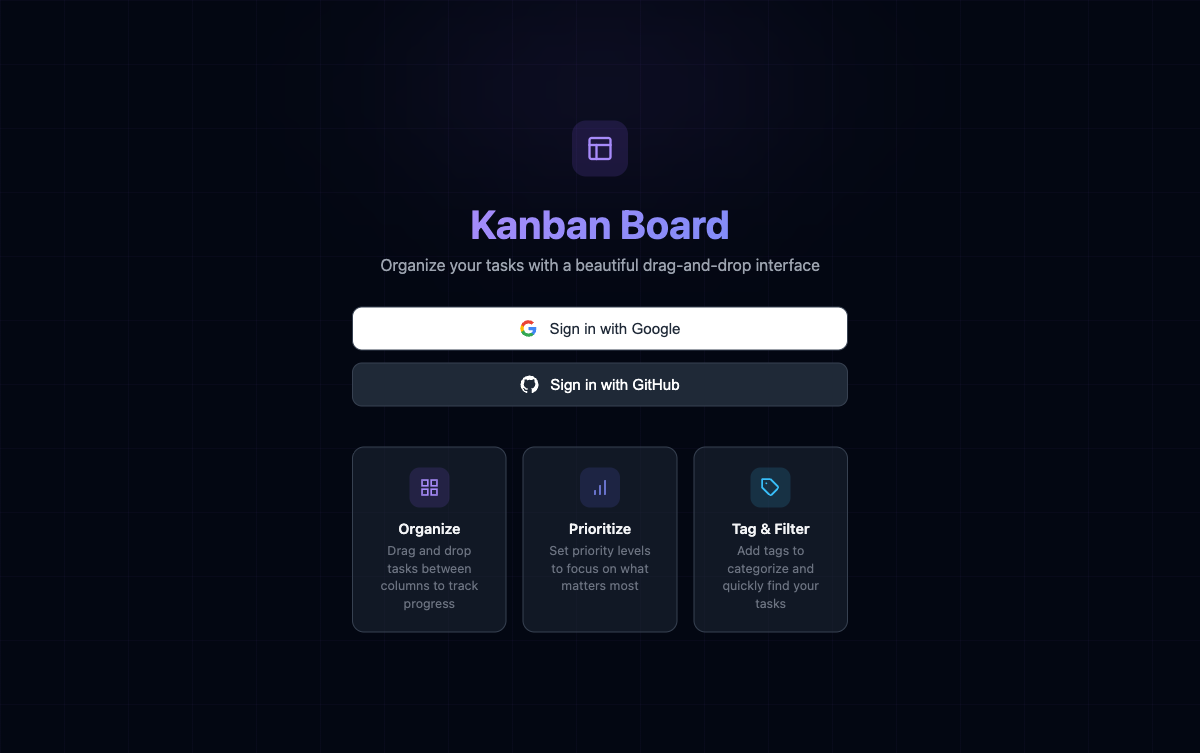
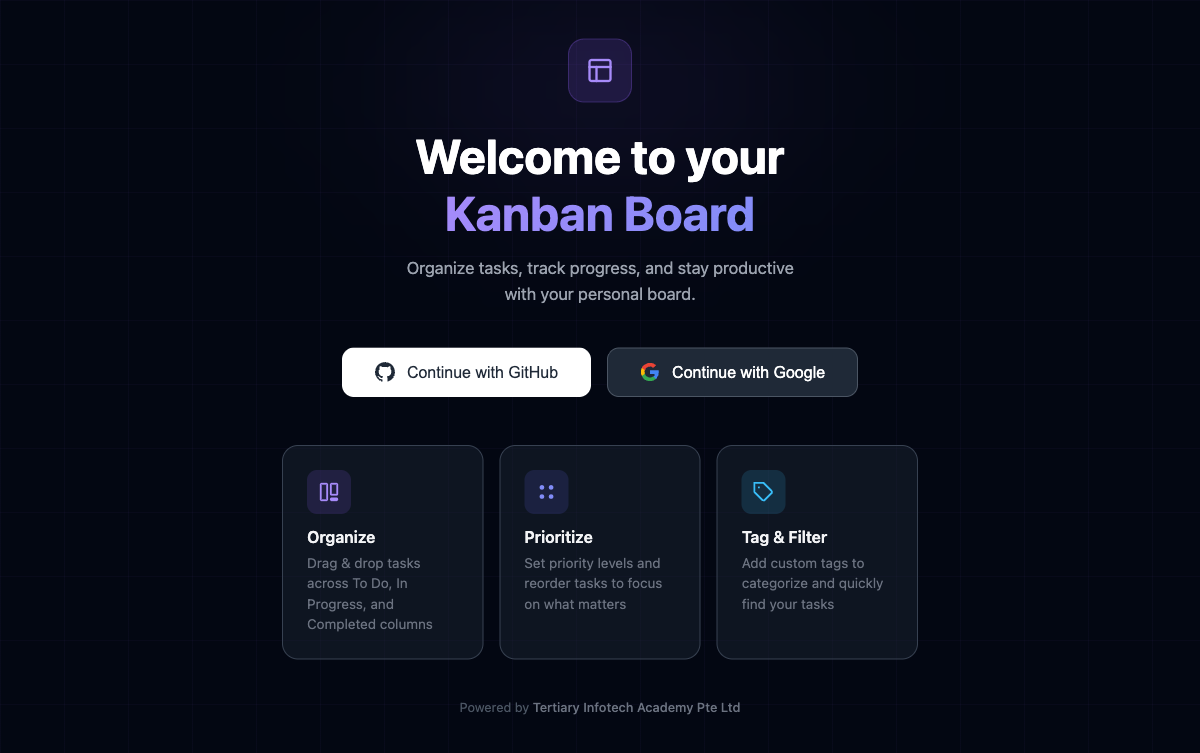
Update welcome page design with side-by-side auth buttons and powered-by footer
- Two-line heading: "Welcome to your / Kanban Board"
- Side-by-side Continue with GitHub/Google buttons
- Left-aligned feature cards with updated icons and copy
- Added "Powered by Tertiary Infotech Academy Pte Ltd" footer
- Updated screenshot

diff --git a/index.html b/index.html
@@ -20,9 +20,10 @@
         </svg>
       </div>
       <h1 class="welcome-title">
+        Welcome to your<br>
         <span class="gradient-text">Kanban Board</span>
       </h1>
-      <p class="welcome-subtitle">Organize your tasks with a beautiful drag-and-drop interface</p>
+      <p class="welcome-subtitle">Organize tasks, track progress, and stay productive<br>with your personal board.</p>
 
       <div id="auth-error" class="auth-error" style="display:none;">
         <svg width="16" height="16" viewBox="0 0 24 24" fill="none" stroke="currentColor" stroke-width="2"><circle cx="12" cy="12" r="10"/><line x1="12" y1="8" x2="12" y2="12"/><line x1="12" y1="16" x2="12.01" y2="16"/></svg>
@@ -30,52 +31,55 @@
       </div>
 
       <div id="auth-buttons" class="auth-buttons">
+        <button id="btn-github" class="auth-btn auth-btn-github" onclick="signInWithGitHub()">
+          <svg width="20" height="20" viewBox="0 0 24 24" fill="currentColor">
+            <path d="M12 0C5.37 0 0 5.37 0 12c0 5.31 3.435 9.795 8.205 11.385.6.105.825-.255.825-.57 0-.285-.015-1.23-.015-2.235-3.015.555-3.795-.735-4.035-1.41-.135-.345-.72-1.41-1.23-1.695-.42-.225-1.02-.78-.015-.795.945-.015 1.62.87 1.845 1.23 1.08 1.815 2.805 1.305 3.495.99.105-.78.42-1.305.765-1.605-2.67-.3-5.46-1.335-5.46-5.925 0-1.305.465-2.385 1.23-3.225-.12-.3-.54-1.53.12-3.18 0 0 1.005-.315 3.3 1.23.96-.27 1.98-.405 3-.405s2.04.135 3 .405c2.295-1.56 3.3-1.23 3.3-1.23.66 1.65.24 2.88.12 3.18.765.84 1.23 1.905 1.23 3.225 0 4.605-2.805 5.625-5.475 5.925.435.375.81 1.095.81 2.22 0 1.605-.015 2.895-.015 3.3 0 .315.225.69.825.57A12.02 12.02 0 0024 12c0-6.63-5.37-12-12-12z"/>
+          </svg>
+          Continue with GitHub
+        </button>
         <button id="btn-google" class="auth-btn auth-btn-google" onclick="signInWithGoogle()">
-          <svg width="18" height="18" viewBox="0 0 24 24">
+          <svg width="20" height="20" viewBox="0 0 24 24">
             <path d="M22.56 12.25c0-.78-.07-1.53-.2-2.25H12v4.26h5.92a5.06 5.06 0 01-2.2 3.32v2.77h3.57c2.08-1.92 3.28-4.74 3.28-8.1z" fill="#4285F4"/>
             <path d="M12 23c2.97 0 5.46-.98 7.28-2.66l-3.57-2.77c-.98.66-2.23 1.06-3.71 1.06-2.86 0-5.29-1.93-6.16-4.53H2.18v2.84C3.99 20.53 7.7 23 12 23z" fill="#34A853"/>
             <path d="M5.84 14.09c-.22-.66-.35-1.36-.35-2.09s.13-1.43.35-2.09V7.07H2.18C1.43 8.55 1 10.22 1 12s.43 3.45 1.18 4.93l2.85-2.22.81-.62z" fill="#FBBC05"/>
             <path d="M12 5.38c1.62 0 3.06.56 4.21 1.64l3.15-3.15C17.45 2.09 14.97 1 12 1 7.7 1 3.99 3.47 2.18 7.07l3.66 2.84c.87-2.6 3.3-4.53 6.16-4.53z" fill="#EA4335"/>
           </svg>
-          Sign in with Google
-        </button>
-        <button id="btn-github" class="auth-btn auth-btn-github" onclick="signInWithGitHub()">
-          <svg width="18" height="18" viewBox="0 0 24 24" fill="currentColor">
-            <path d="M12 0C5.37 0 0 5.37 0 12c0 5.31 3.435 9.795 8.205 11.385.6.105.825-.255.825-.57 0-.285-.015-1.23-.015-2.235-3.015.555-3.795-.735-4.035-1.41-.135-.345-.72-1.41-1.23-1.695-.42-.225-1.02-.78-.015-.795.945-.015 1.62.87 1.845 1.23 1.08 1.815 2.805 1.305 3.495.99.105-.78.42-1.305.765-1.605-2.67-.3-5.46-1.335-5.46-5.925 0-1.305.465-2.385 1.23-3.225-.12-.3-.54-1.53.12-3.18 0 0 1.005-.315 3.3 1.23.96-.27 1.98-.405 3-.405s2.04.135 3 .405c2.295-1.56 3.3-1.23 3.3-1.23.66 1.65.24 2.88.12 3.18.765.84 1.23 1.905 1.23 3.225 0 4.605-2.805 5.625-5.475 5.925.435.375.81 1.095.81 2.22 0 1.605-.015 2.895-.015 3.3 0 .315.225.69.825.57A12.02 12.02 0 0024 12c0-6.63-5.37-12-12-12z"/>
-          </svg>
-          Sign in with GitHub
+          Continue with Google
         </button>
       </div>
 
       <div class="feature-cards">
         <div class="feature-card">
           <div class="feature-icon feature-icon-violet">
-            <svg width="20" height="20" viewBox="0 0 24 24" fill="none" stroke="currentColor" stroke-width="2" stroke-linecap="round" stroke-linejoin="round">
-              <rect x="3" y="3" width="7" height="7"/><rect x="14" y="3" width="7" height="7"/><rect x="14" y="14" width="7" height="7"/><rect x="3" y="14" width="7" height="7"/>
+            <svg width="22" height="22" viewBox="0 0 24 24" fill="none" stroke="currentColor" stroke-width="2" stroke-linecap="round" stroke-linejoin="round">
+              <rect x="3" y="3" width="7" height="18" rx="1"/><rect x="14" y="3" width="7" height="12" rx="1"/><rect x="14" y="19" width="7" height="2" rx="1"/>
             </svg>
           </div>
           <h3>Organize</h3>
-          <p>Drag and drop tasks between columns to track progress</p>
+          <p>Drag & drop tasks across To Do, In Progress, and Completed columns</p>
         </div>
         <div class="feature-card">
           <div class="feature-icon feature-icon-indigo">
-            <svg width="20" height="20" viewBox="0 0 24 24" fill="none" stroke="currentColor" stroke-width="2" stroke-linecap="round" stroke-linejoin="round">
-              <line x1="12" y1="20" x2="12" y2="10"/><line x1="18" y1="20" x2="18" y2="4"/><line x1="6" y1="20" x2="6" y2="16"/>
+            <svg width="22" height="22" viewBox="0 0 24 24" fill="currentColor">
+              <circle cx="7" cy="7" r="2.5"/><circle cx="17" cy="7" r="2.5"/>
+              <circle cx="7" cy="17" r="2.5"/><circle cx="17" cy="17" r="2.5"/>
             </svg>
           </div>
           <h3>Prioritize</h3>
-          <p>Set priority levels to focus on what matters most</p>
+          <p>Set priority levels and reorder tasks to focus on what matters</p>
         </div>
         <div class="feature-card">
           <div class="feature-icon feature-icon-sky">
-            <svg width="20" height="20" viewBox="0 0 24 24" fill="none" stroke="currentColor" stroke-width="2" stroke-linecap="round" stroke-linejoin="round">
+            <svg width="22" height="22" viewBox="0 0 24 24" fill="none" stroke="currentColor" stroke-width="2" stroke-linecap="round" stroke-linejoin="round">
               <path d="M20.59 13.41l-7.17 7.17a2 2 0 01-2.83 0L2 12V2h10l8.59 8.59a2 2 0 010 2.82z"/><line x1="7" y1="7" x2="7.01" y2="7"/>
             </svg>
           </div>
           <h3>Tag & Filter</h3>
-          <p>Add tags to categorize and quickly find your tasks</p>
+          <p>Add custom tags to categorize and quickly find your tasks</p>
         </div>
       </div>
+
+      <p class="powered-by">Powered by <strong>Tertiary Infotech Academy Pte Ltd</strong></p>
     </div>
   </div>
 

diff --git a/style.css b/style.css
@@ -74,7 +74,7 @@ body {
   position: relative;
   z-index: 1;
   text-align: center;
-  max-width: 560px;
+  max-width: 700px;
   padding: 2rem;
 }
 
@@ -82,18 +82,21 @@ body {
   display: inline-flex;
   align-items: center;
   justify-content: center;
-  width: 56px;
-  height: 56px;
-  border-radius: 14px;
+  width: 64px;
+  height: 64px;
+  border-radius: 16px;
   background: rgba(139, 92, 246, 0.15);
+  border: 1px solid rgba(139, 92, 246, 0.25);
   color: var(--violet-400);
   margin-bottom: 1.5rem;
 }
 
 .welcome-title {
-  font-size: 2.5rem;
+  font-size: 3rem;
   font-weight: 700;
-  margin-bottom: 0.5rem;
+  margin-bottom: 0.75rem;
+  line-height: 1.2;
+  color: white;
 }
 
 .gradient-text {
@@ -105,16 +108,18 @@ body {
 
 .welcome-subtitle {
   color: var(--gray-400);
-  font-size: 1rem;
-  margin-bottom: 2rem;
+  font-size: 1.05rem;
+  margin-bottom: 2.5rem;
+  line-height: 1.6;
 }
 
 /* Auth Buttons */
 .auth-buttons {
   display: flex;
-  flex-direction: column;
-  gap: 0.75rem;
-  margin-bottom: 2.5rem;
+  flex-direction: row;
+  gap: 1rem;
+  margin-bottom: 3rem;
+  justify-content: center;
 }
 
 .auth-btn {
@@ -122,29 +127,37 @@ body {
   align-items: center;
   justify-content: center;
   gap: 0.75rem;
-  padding: 0.75rem 1.5rem;
-  border-radius: 10px;
+  padding: 0.85rem 2rem;
+  border-radius: 12px;
   border: 1px solid var(--gray-700);
-  font-size: 0.95rem;
+  font-size: 1rem;
   font-weight: 500;
   cursor: pointer;
   transition: all 0.2s;
-}
-
-.auth-btn-google {
-  background: white;
-  color: #1f2937;
-}
-.auth-btn-google:hover {
-  background: #f3f4f6;
+  min-width: 220px;
 }
 
 .auth-btn-github {
-  background: var(--gray-800);
-  color: white;
+  background: white;
+  color: #1f2937;
+  border-color: rgba(255, 255, 255, 0.2);
 }
 .auth-btn-github:hover {
+  background: #f3f4f6;
+}
+.auth-btn-github svg {
+  color: #1f2937;
+  fill: #1f2937;
+}
+
+.auth-btn-google {
+  background: var(--gray-800);
+  color: white;
+  border-color: var(--gray-600);
+}
+.auth-btn-google:hover {
   background: var(--gray-700);
+  border-color: var(--gray-500);
 }
 
 .auth-error {
@@ -168,34 +181,46 @@ body {
 }
 
 .feature-card {
-  background: rgba(31, 41, 55, 0.5);
+  background: rgba(31, 41, 55, 0.4);
   border: 1px solid var(--gray-700);
-  border-radius: 12px;
-  padding: 1.25rem;
-  text-align: center;
+  border-radius: 16px;
+  padding: 1.5rem;
+  text-align: left;
 }
 
 .feature-card h3 {
   color: var(--gray-100);
-  font-size: 0.9rem;
+  font-size: 1rem;
   font-weight: 600;
-  margin-bottom: 0.35rem;
+  margin-bottom: 0.4rem;
 }
 
 .feature-card p {
   color: var(--gray-500);
-  font-size: 0.78rem;
-  line-height: 1.4;
+  font-size: 0.85rem;
+  line-height: 1.5;
 }
 
 .feature-icon {
   display: inline-flex;
   align-items: center;
   justify-content: center;
-  width: 40px;
-  height: 40px;
+  width: 44px;
+  height: 44px;
   border-radius: 10px;
-  margin-bottom: 0.75rem;
+  margin-bottom: 0.85rem;
+}
+
+/* Powered By */
+.powered-by {
+  color: var(--gray-600);
+  font-size: 0.8rem;
+  margin-top: 2.5rem;
+}
+
+.powered-by strong {
+  color: var(--gray-500);
+  font-weight: 500;
 }
 
 .feature-icon-violet {
@@ -672,6 +697,15 @@ body {
 
 /* ===== Responsive ===== */
 @media (max-width: 768px) {
+  .welcome-title {
+    font-size: 2.2rem;
+  }
+  .auth-buttons {
+    flex-direction: column;
+  }
+  .auth-btn {
+    min-width: unset;
+  }
   .feature-cards {
     grid-template-columns: 1fr;
   }
